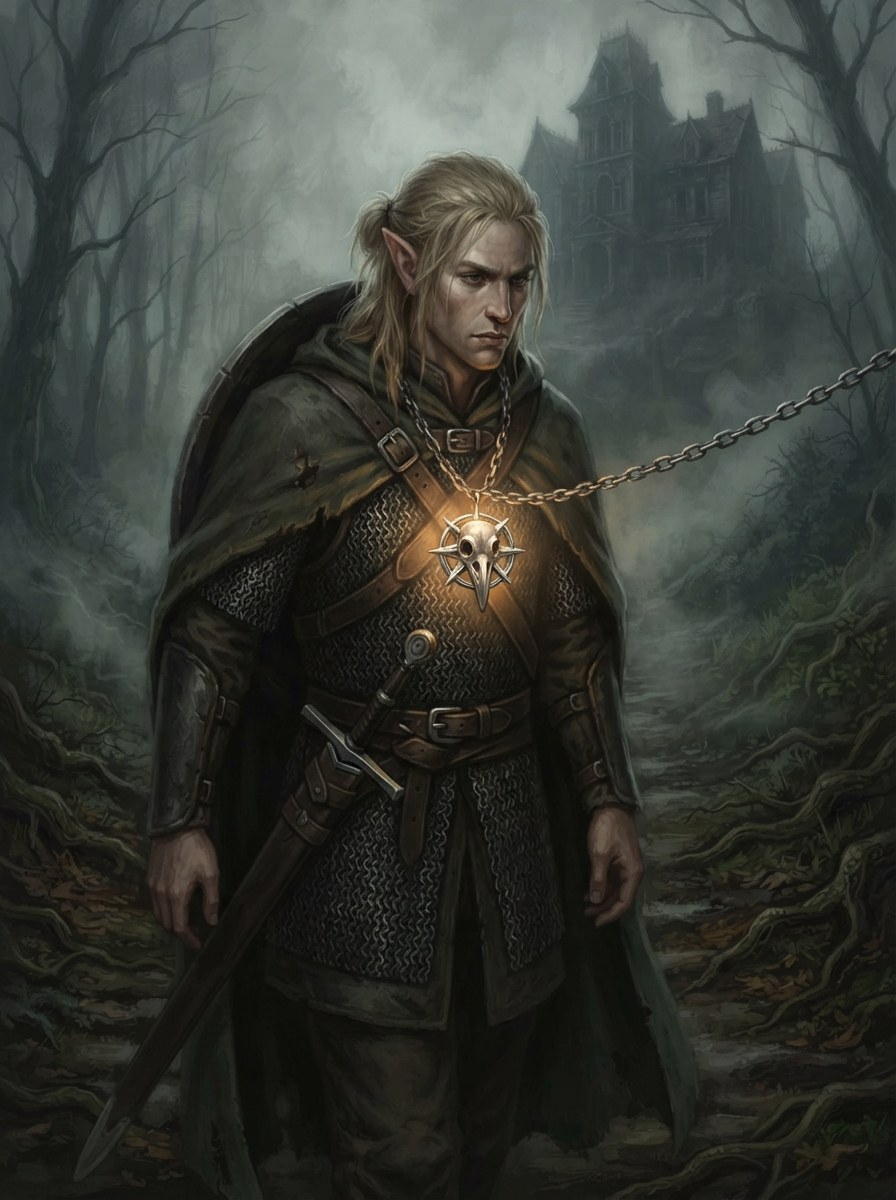
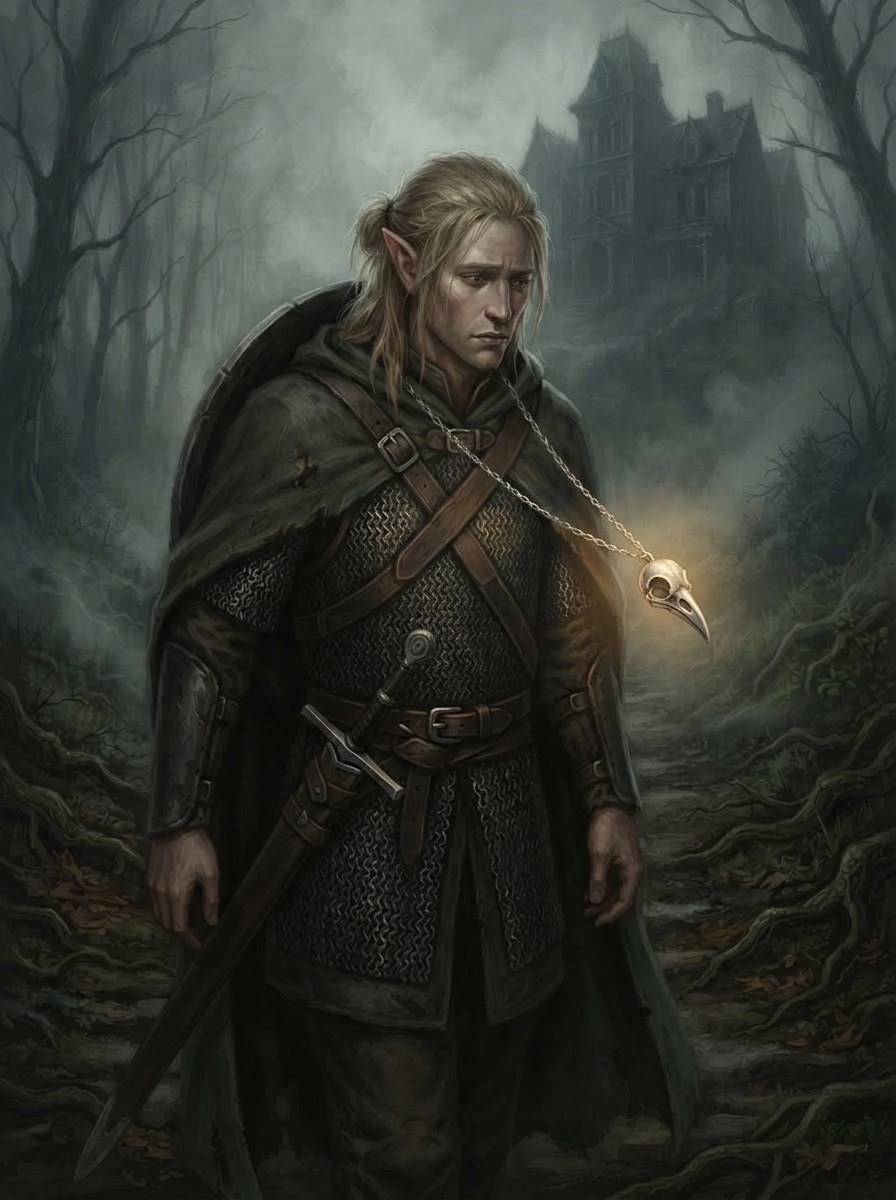
Weeble's portrait: one chain, pulled by the pendant itself
Chris (2026-11-03): the old picture's chain went around Weeble's neck and
also ran off taut to the edge, as if something else led him. Repainted
(Flash, best of 3, independent look check) with the plain bird-skull
pendant from the barn picture floating forward on its one chain.

Claude-Session: https://claude.ai/code/session_01U8i5qXVmr2DYwahxBihWwB

diff --git a/content/posts/2023-11-07-session-zero.md b/content/posts/2023-11-07-session-zero.md
@@ -24,7 +24,7 @@ After a time a thick fog settled over the town. Soon after, the tooth necklace [
 
 ![Weeble Wobleston, a high-elf fighter, his pendant glowing and pulling on its chain](/images/weeble-wobleston-ai.jpg)
 
-*AI-generated image (Google Gemini, October 2026). Not player art.*
+*AI-generated image (Google Gemini, November 2026). Not player art.*
 
 We did not know what to do, but we felt compelled to follow those relics as they led us through the mists. The fog was so thick that those of us without a relic had to stay close or fall behind and be lost.
 

diff --git a/content/wiki/weeble-wobleston.md b/content/wiki/weeble-wobleston.md
@@ -12,7 +12,7 @@ obsidian_portal_url: https://curseofstrahdowlbear.obsidianportal.com/characters/
 
 ![Weeble Wobleston, a high-elf fighter, his pendant glowing and pulling on its chain](/images/weeble-wobleston-ai.jpg)
 
-*AI-generated image (Google Gemini, October 2026), drawn from this page and the session logs. Not player art.*
+*AI-generated image (Google Gemini, November 2026), drawn from this page and the session logs. Not player art.*
 
 *Written from the session logs.*
 
